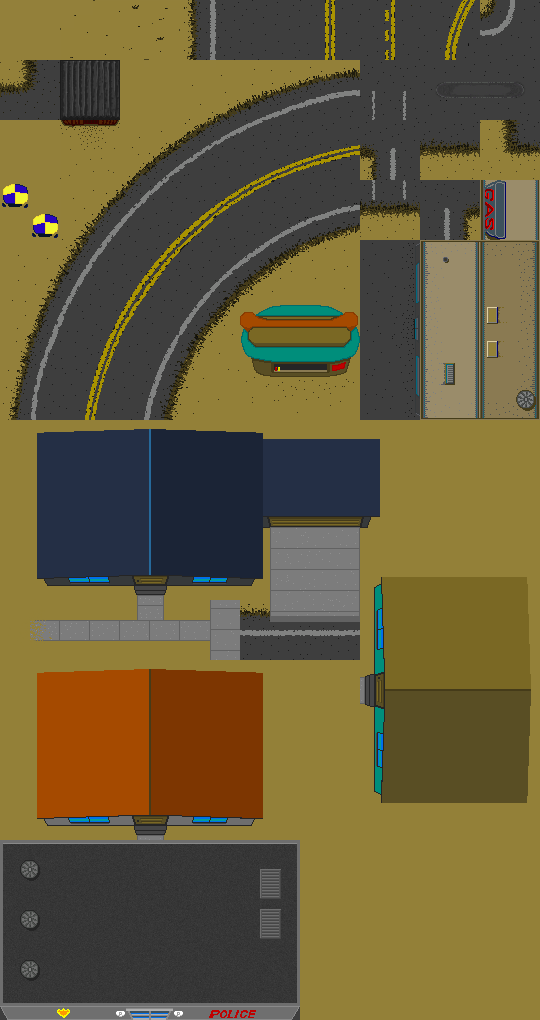
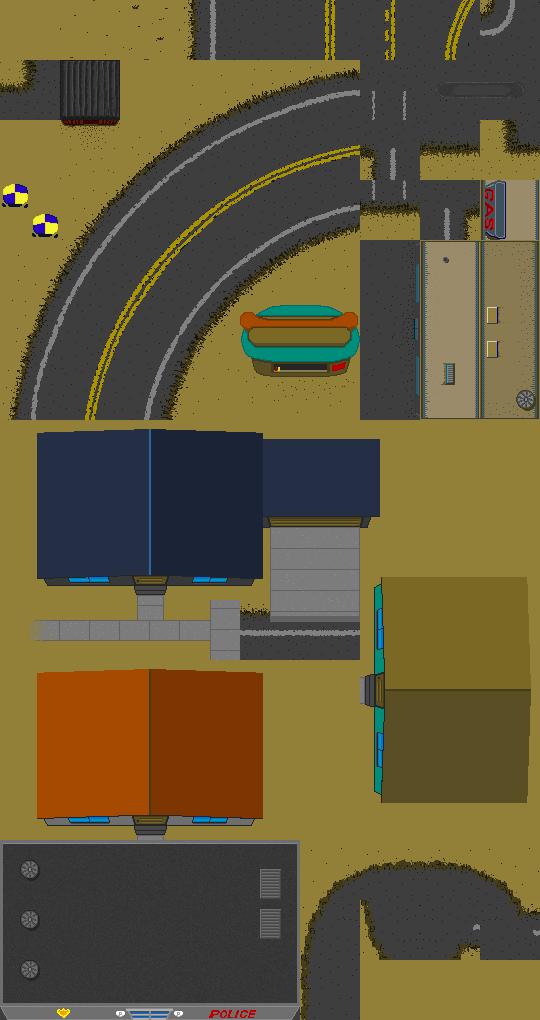
cul-de-sac!

Changed region(s): [[0.5333, 0.8206, 1.0, 1.0]]

diff --git a/lib/TileMarshal.js b/lib/TileMarshal.js
@@ -20,7 +20,10 @@ define([], function () {
                    60,
                    76,77,
                    85,86,
-                   90,91,92,93,94,95];
+                   90,91,92,93,94,95,
+                   131,132,133,134,
+                   140,141,142,143,
+                   149];
 
   var roadTilesMap = [];
 
